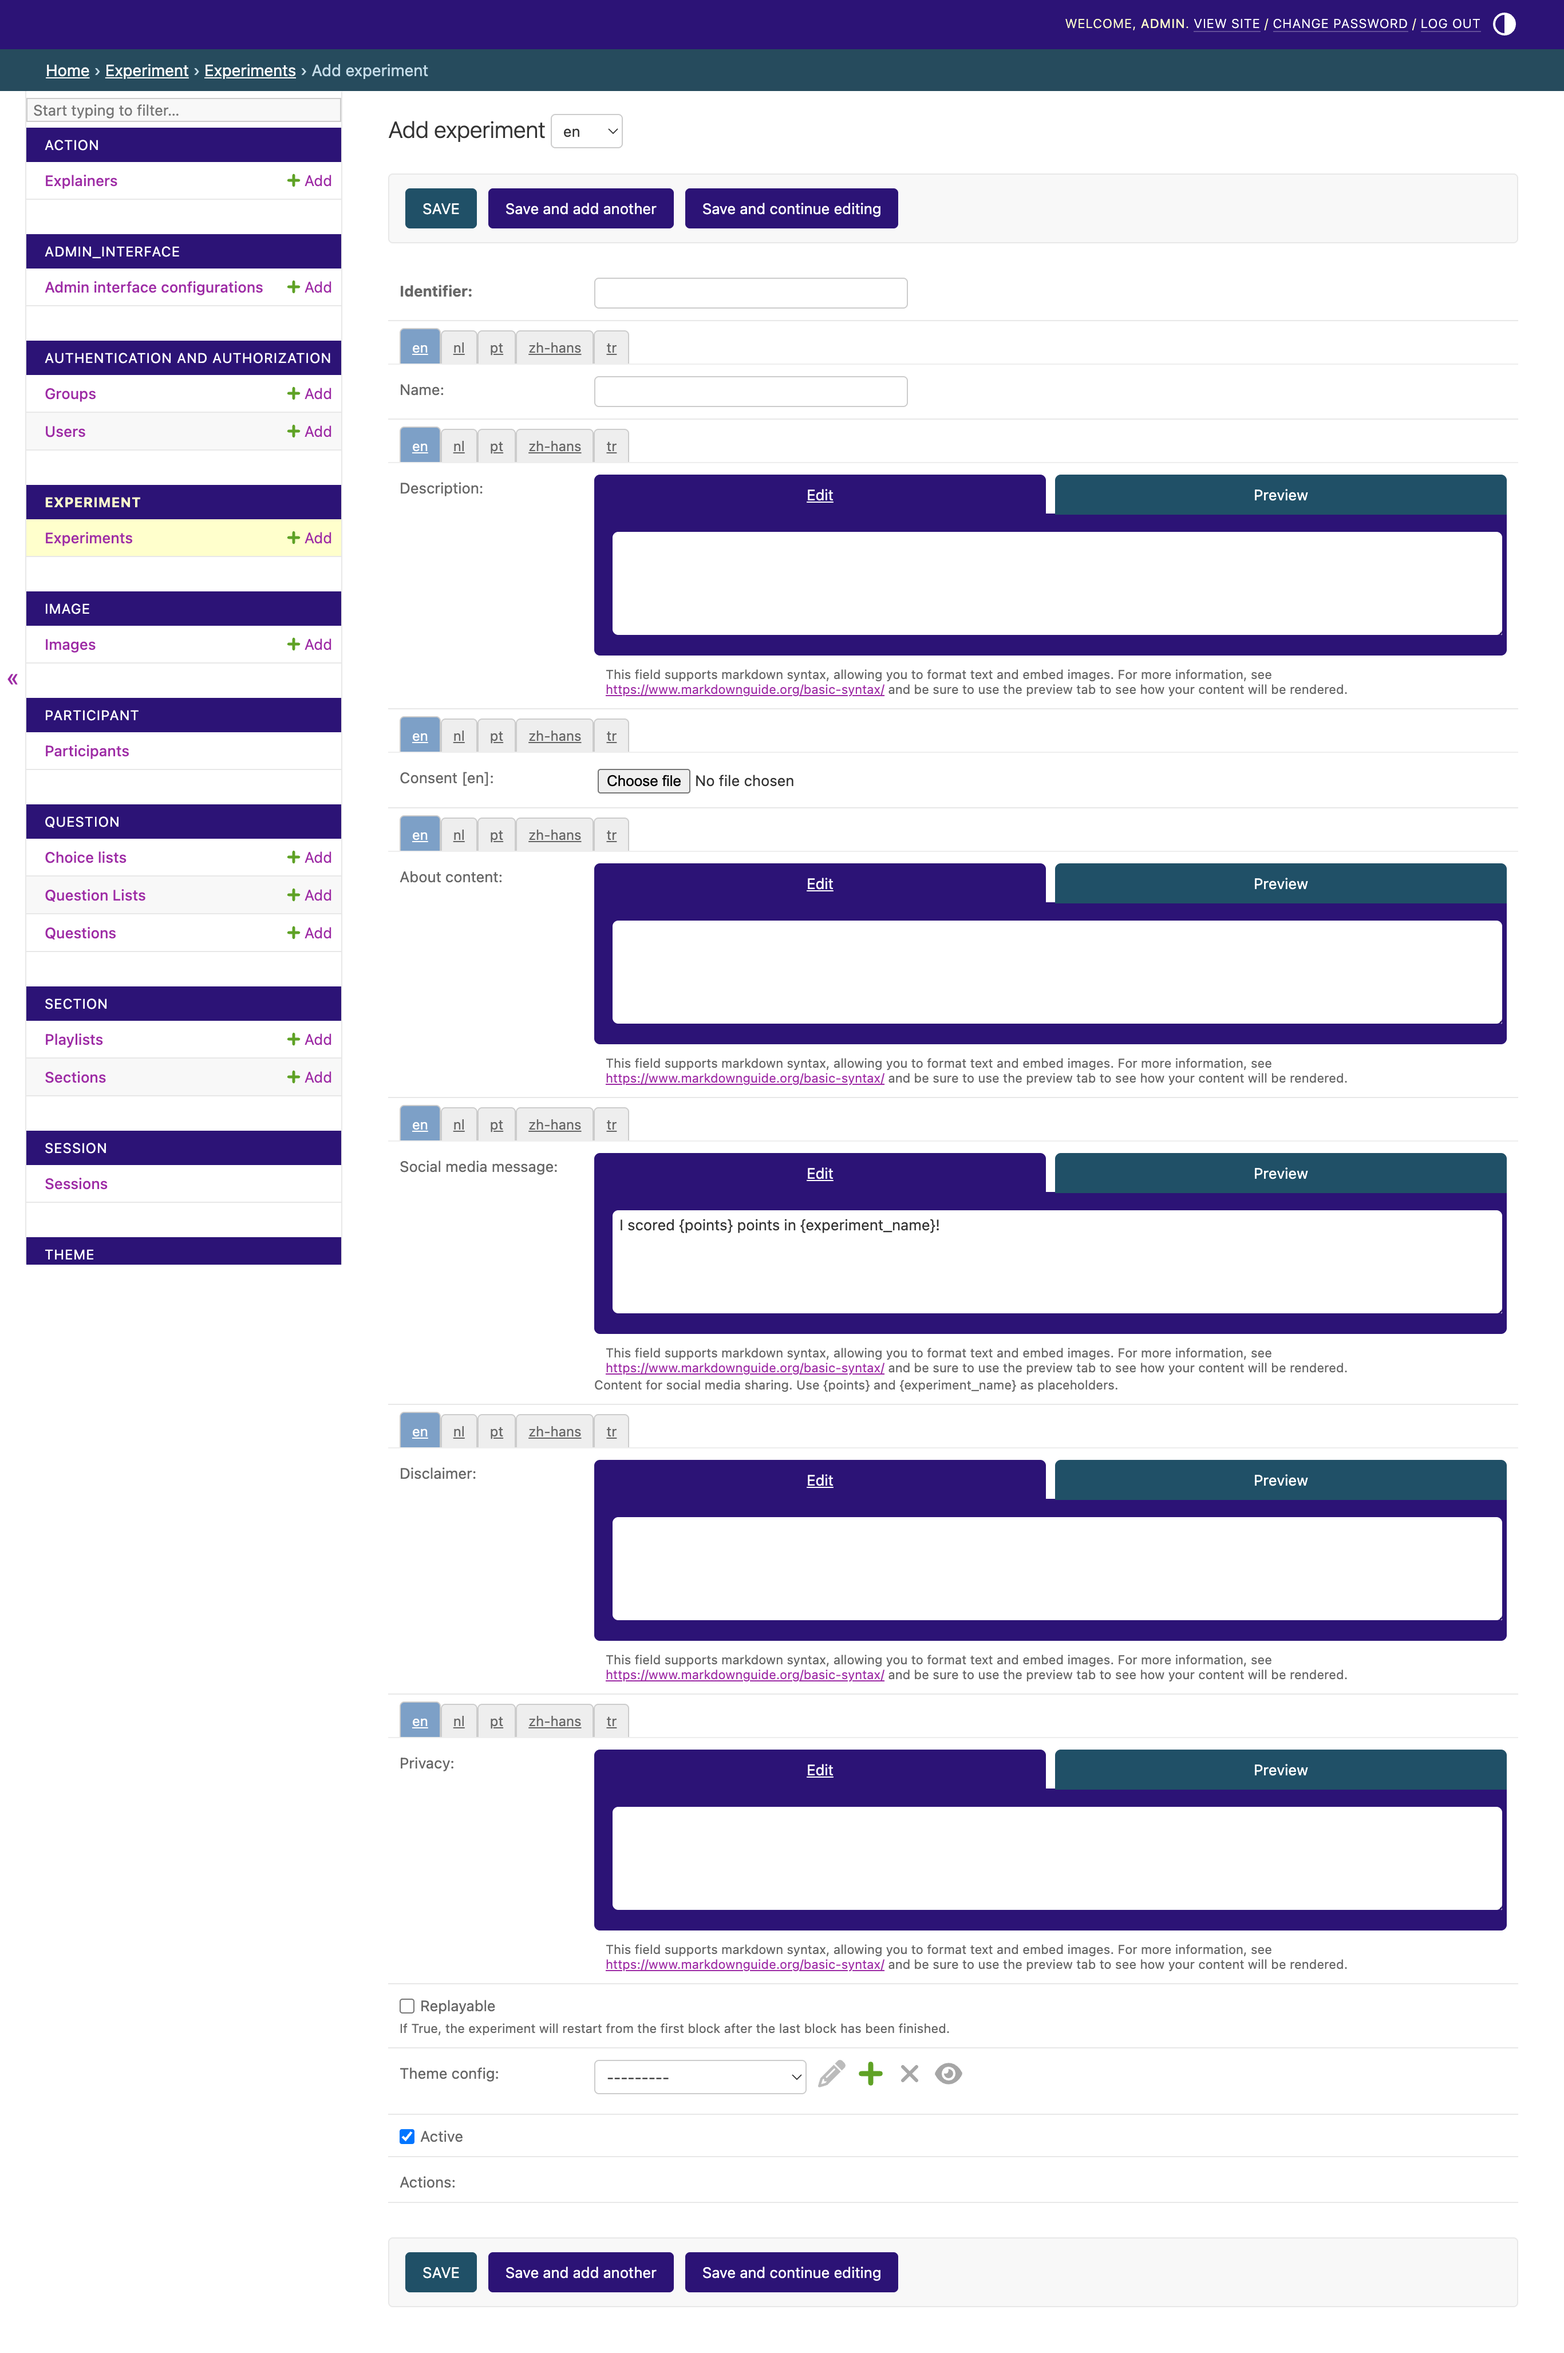
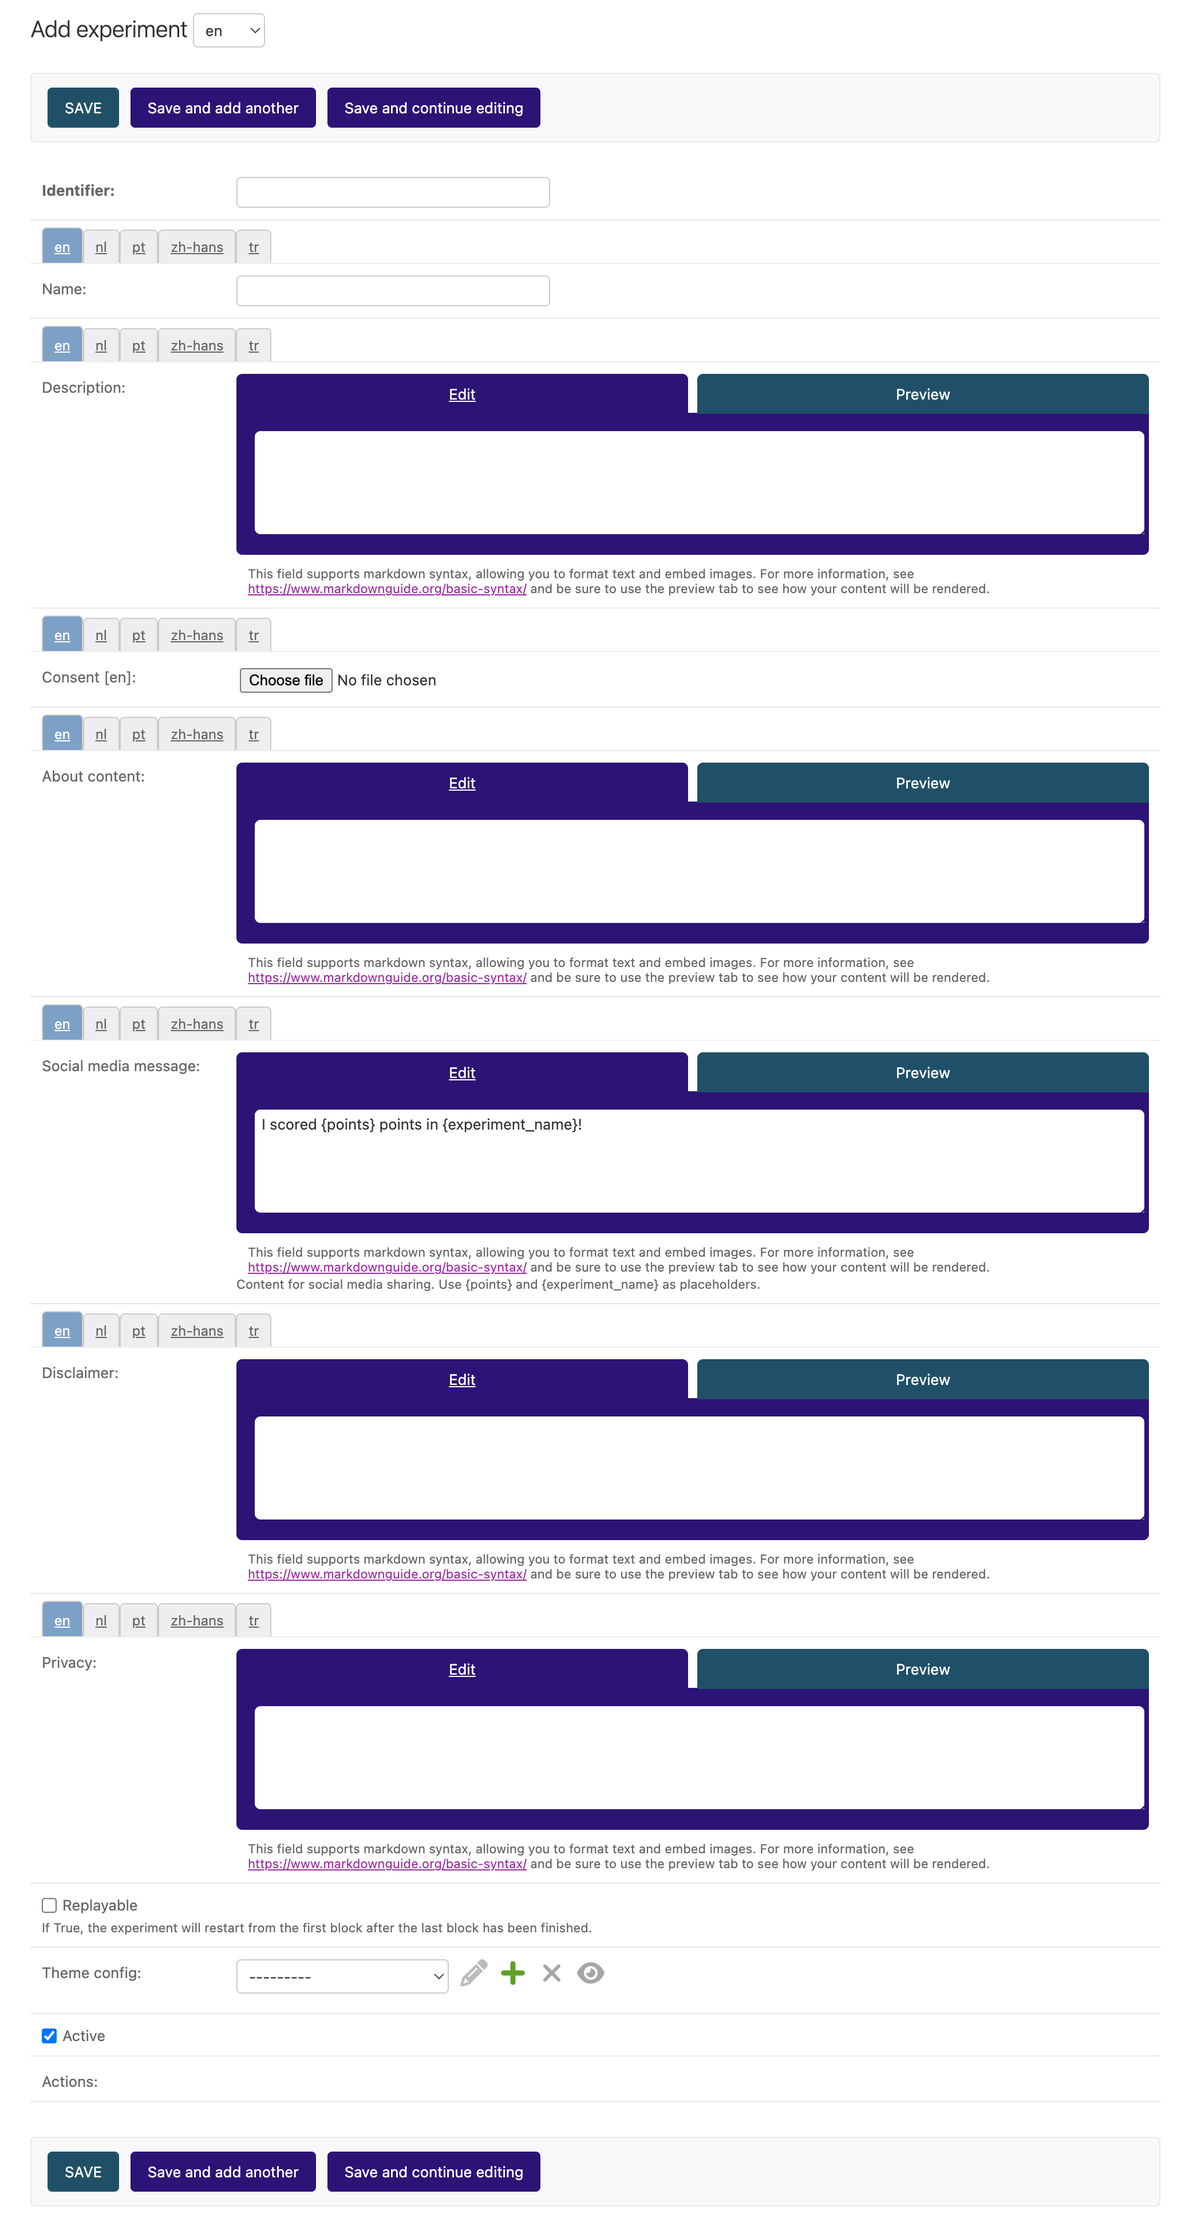
correct screenshots and description

diff --git a/docs/docs/06_Custom_questions.md b/docs/docs/06_Custom_questions.md
@@ -10,7 +10,7 @@ Choice lists are collections of answer options for multiple choice questions, fo
 However, you can add custom choice lists through the admin interface by clicking "Add":
 <img width="500" alt="Choice List" src="../assets/images/ChoiceList.png">
 
-To create a choice list, you need to provide a descriptive identifier. Note that the identifier can only contain letters, numbers, and underscores. You can then proceed to add choices. For each choice, a identifier and a display text, which can be translated in all configured languages, should be entered.
+To create a choice list, you need to provide a descriptive identifier. Note that the identifier can only contain letters, numbers, and underscores. You can then proceed to add choices. For each choice, add an identifier (unique for the given ChoiceList) and a display text, which can be translated in all configured languages.
 
 ## Question Lists
 Question Lists are sets of questions you can attach to a given block in your experiment. If you click "Add", you will see the following form:
